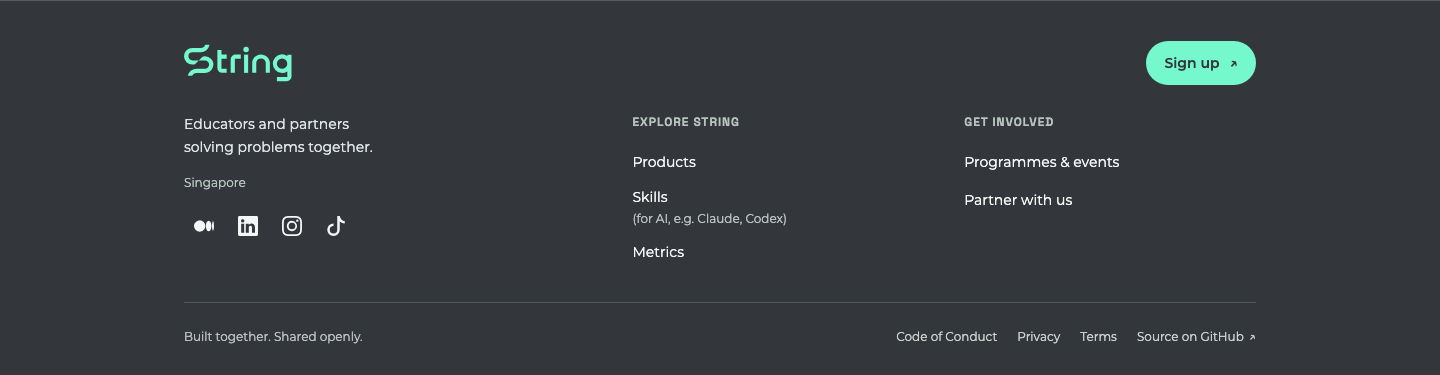
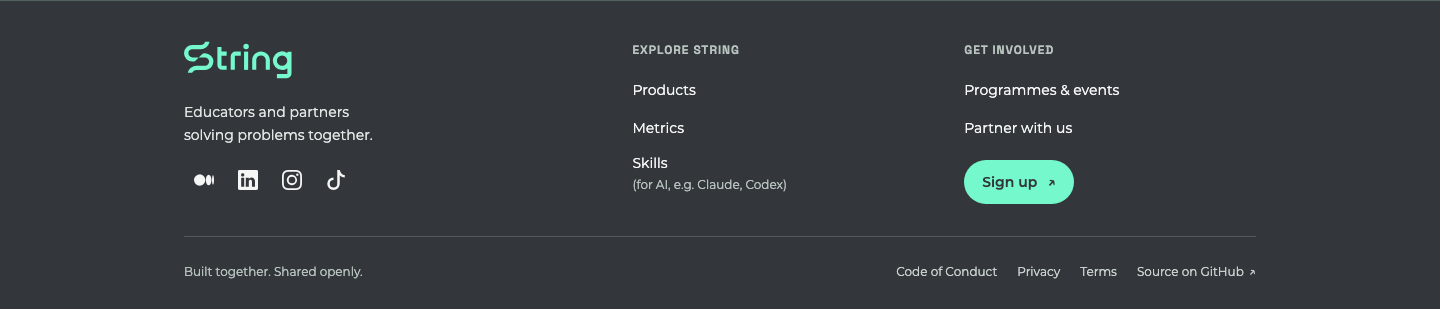
Move signup into Get involved and remove location label

diff --git a/components/string-footer/footer.html b/components/string-footer/footer.html
@@ -1,15 +1,11 @@
 <footer class="str-footer" aria-label="String">
   <div class="str-footer__inner">
-    <div class="str-footer__top">
-      <a class="str-footer__brand" href="https://string.sg/" aria-label="String home">
-        <img src="/string-footer/string-logo.svg" alt="String" width="108" height="38" loading="lazy" />
-      </a>
-      <a class="str-footer__signup" href="https://id.string.sg/">Sign up <span aria-hidden="true">↗</span></a>
-    </div>
     <div class="str-footer__main">
       <div class="str-footer__identity">
+        <a class="str-footer__brand" href="https://string.sg/" aria-label="String home">
+          <img src="/string-footer/string-logo.svg" alt="String" width="108" height="38" loading="lazy" />
+        </a>
         <p>Educators and partners<br />solving problems together.</p>
-        <span class="str-footer__location">Singapore</span>
         <nav class="str-footer__social" aria-label="String social channels">
           <a href="https://medium.com/string" aria-label="Medium" title="Medium"><svg viewBox="0 0 16 16" fill="currentColor" width="20" height="20" aria-hidden="true" focusable="false"><path d="M9.025 8c0 2.485-2.02 4.5-4.513 4.5A4.506 4.506 0 0 1 0 8c0-2.486 2.02-4.5 4.512-4.5A4.506 4.506 0 0 1 9.025 8m4.95 0c0 2.34-1.01 4.236-2.256 4.236S9.463 10.339 9.463 8c0-2.34 1.01-4.236 2.256-4.236S13.975 5.661 13.975 8M16 8c0 2.096-.355 3.795-.794 3.795-.438 0-.793-1.7-.793-3.795 0-2.096.355-3.795.794-3.795.438 0 .793 1.699.793 3.795" /></svg></a>
           <a href="https://www.linkedin.com/company/77759625/" aria-label="LinkedIn" title="LinkedIn"><svg viewBox="0 0 16 16" fill="currentColor" width="20" height="20" aria-hidden="true" focusable="false"><path d="M0 1.146C0 .513.526 0 1.175 0h13.65C15.474 0 16 .513 16 1.146v13.708c0 .633-.526 1.146-1.175 1.146H1.175C.526 16 0 15.487 0 14.854zm4.943 12.248V6.169H2.542v7.225zm-1.2-8.212c.837 0 1.358-.554 1.358-1.248-.015-.709-.52-1.248-1.342-1.248S2.4 3.226 2.4 3.934c0 .694.521 1.248 1.327 1.248zm4.908 8.212V9.359c0-.216.016-.432.08-.586.173-.431.568-.878 1.232-.878.869 0 1.216.662 1.216 1.634v3.865h2.401V9.25c0-2.22-1.184-3.252-2.764-3.252-1.274 0-1.845.7-2.165 1.193v.025h-.016l.016-.025V6.169h-2.4c.03.678 0 7.225 0 7.225z" /></svg></a>
@@ -20,13 +16,14 @@
       <nav class="str-footer__nav" aria-label="String products">
         <h2>Explore String</h2>
         <a href="https://string.sg/products/">Products</a>
-        <a class="str-footer__skills" href="https://skills.string.sg/">Skills <span class="str-footer__hint">(for AI, e.g. Claude, Codex)</span></a>
         <a href="https://reports.string.sg/">Metrics</a>
+        <a class="str-footer__skills" href="https://skills.string.sg/">Skills <span class="str-footer__hint">(for AI, e.g. Claude, Codex)</span></a>
       </nav>
       <nav class="str-footer__nav" aria-label="String community">
         <h2>Get involved</h2>
         <a href="https://luma.com/string">Programmes &amp; events</a>
         <a href="https://string.sg/partner/">Partner with us</a>
+        <a class="str-footer__signup" href="https://id.string.sg/">Sign up <span aria-hidden="true">↗</span></a>
       </nav>
     </div>
     <div class="str-footer__bottom">

diff --git a/components/string-footer/footer.css b/components/string-footer/footer.css
@@ -8,11 +8,9 @@
 }
 .str-footer .str-footer__inner { width: min(1120px, 100%); margin: 0 auto; padding: 40px 24px 20px; }
 .str-footer .str-footer__main { display: grid; grid-template-columns: 1.4fr 1fr 1fr; gap: 40px; }
-.str-footer .str-footer__top { display: flex; justify-content: space-between; align-items: center; gap: 24px; margin-bottom: 28px; }
 .str-footer .str-footer__brand { display: inline-flex; padding: 0; }
 .str-footer .str-footer__brand img { display: block; width: 108px; height: 38px; max-width: 100%; }
-.str-footer .str-footer__identity p { margin: 0 0 12px; color: #e1e6e4; font-size: 14px; line-height: 1.65; }
-.str-footer .str-footer__location { color: #b8c3bf; font-size: 12px; }
+.str-footer .str-footer__identity p { margin: 16px 0 12px; color: #e1e6e4; font-size: 14px; line-height: 1.65; }
 .str-footer .str-footer__nav { display: flex; flex-direction: column; align-items: flex-start; gap: 2px; }
 .str-footer .str-footer__nav h2 {
   margin: 0 0 10px; color: #b8c3bf; font-family: "Space Grotesk", ui-sans-serif, system-ui, sans-serif;
@@ -37,8 +35,8 @@
 }
 @media (forced-colors: active) { .str-footer a:focus-visible { outline-color: LinkText; } }
 
-.str-footer .str-footer__signup { display: inline-flex; align-items: center; justify-content: center; gap: 10px; min-height: 44px; padding: 8px 18px; border-radius: 999px; background: #75f8cc; color: #33373b; font-weight: 600; white-space: nowrap; }
-.str-footer .str-footer__signup:hover { background: #cffded; color: #33373b; text-decoration: none; }
+.str-footer .str-footer__nav .str-footer__signup { margin-top: 12px; display: inline-flex; align-items: center; justify-content: center; gap: 10px; min-height: 44px; padding: 8px 18px; border-radius: 999px; background: #75f8cc; color: #33373b; font-weight: 600; white-space: nowrap; }
+.str-footer .str-footer__nav .str-footer__signup:hover { background: #cffded; color: #33373b; text-decoration: none; }
 .str-footer .str-footer__social { display: flex; flex-wrap: wrap; gap: 4px; margin-top: 12px; }
 .str-footer .str-footer__social a { display: inline-flex; align-items: center; justify-content: center; width: 40px; height: 40px; border-radius: 8px; }
 .str-footer .str-footer__social a:hover { background: #414b47; text-decoration: none; }

diff --git a/.claude/skills/string-footer/SKILL.md b/.claude/skills/string-footer/SKILL.md
@@ -7,7 +7,7 @@ description: Adopt or update the shared String product footer across String webs
 
 The source of truth is [String-sg/string-brand-guide/components/string-footer](https://github.com/String-sg/string-brand-guide/tree/main/components/string-footer). Read its README and inspect the target repository's instructions before editing.
 
-The component uses String's mint logo, charcoal background, Montserrat body and Space Grotesk labels. Explore String contains Products (`https://string.sg/products/`), Skills with the explanation “for AI, e.g. Claude, Codex” (`https://skills.string.sg/`), and Metrics (`https://reports.string.sg/`). Keep Bingo out of this navigation. Place a Sign up link to `https://id.string.sg/` at the footer’s top right. Social links use compact SVG icons with accessible names and visible keyboard focus. Keep community, privacy, terms and repository source links consistent. Social destinations are Medium (`https://medium.com/string`), LinkedIn (`https://www.linkedin.com/company/77759625/`), Instagram (`https://www.instagram.com/stringedu/`) and TikTok (`https://www.tiktok.com/@string.sg`). Only String ID shows Code of Conduct, using the local `/conduct` route. Do not add that policy link to the other products. Signing and access controls remain owned by String ID.
+The component uses String's mint logo, charcoal background, Montserrat body and Space Grotesk labels. Explore String contains Products (`https://string.sg/products/`), Metrics (`https://reports.string.sg/`), then Skills with the explanation “for AI, e.g. Claude, Codex” (`https://skills.string.sg/`). Keep Bingo out of this navigation. Place a Sign up link to `https://id.string.sg/` below the links in Get involved. Do not show a location label; String is expanding across Asia. Social links use compact SVG icons with accessible names and visible keyboard focus. Keep community, privacy, terms and repository source links consistent. Social destinations are Medium (`https://medium.com/string`), LinkedIn (`https://www.linkedin.com/company/77759625/`), Instagram (`https://www.instagram.com/stringedu/`) and TikTok (`https://www.tiktok.com/@string.sg`). Only String ID shows Code of Conduct, using the local `/conduct` route. Do not add that policy link to the other products. Signing and access controls remain owned by String ID.
 
 For the four supported products, run the reviewed branding checkout's script:
 

diff --git a/components/string-footer/README.md b/components/string-footer/README.md
@@ -35,4 +35,4 @@ The earlier String ID #82 and String Skills #8 PRs introduce `@string-sg/ui` hea
 
 ## Navigation and icon conventions
 
-Explore String links to Products (`https://string.sg/products/`), Skills (`https://skills.string.sg/`, explained as “for AI, e.g. Claude, Codex”), and Metrics (`https://reports.string.sg/`). Bingo is not promoted in this navigation. The top-right Sign up CTA points to `https://id.string.sg/`. Medium, LinkedIn, Instagram and TikTok use icon-only links with accessible names, title tooltips and keyboard focus. Inline icons come from [Bootstrap Icons](https://github.com/twbs/icons), distributed through react-icons 5.7.0; the upstream MIT licence is included here and vendored with each consumer. No icon font, runtime icon library or remote icon request is needed.
+Explore String links to Products (`https://string.sg/products/`), Metrics (`https://reports.string.sg/`), then Skills (`https://skills.string.sg/`, explained as “for AI, e.g. Claude, Codex”). Bingo is not promoted in this navigation. The Sign up CTA sits below the Get involved links and points to `https://id.string.sg/`. No location label is shown, to support String’s expansion across Asia. Medium, LinkedIn, Instagram and TikTok use icon-only links with accessible names, title tooltips and keyboard focus. Inline icons come from [Bootstrap Icons](https://github.com/twbs/icons), distributed through react-icons 5.7.0; the upstream MIT licence is included here and vendored with each consumer. No icon font, runtime icon library or remote icon request is needed.
